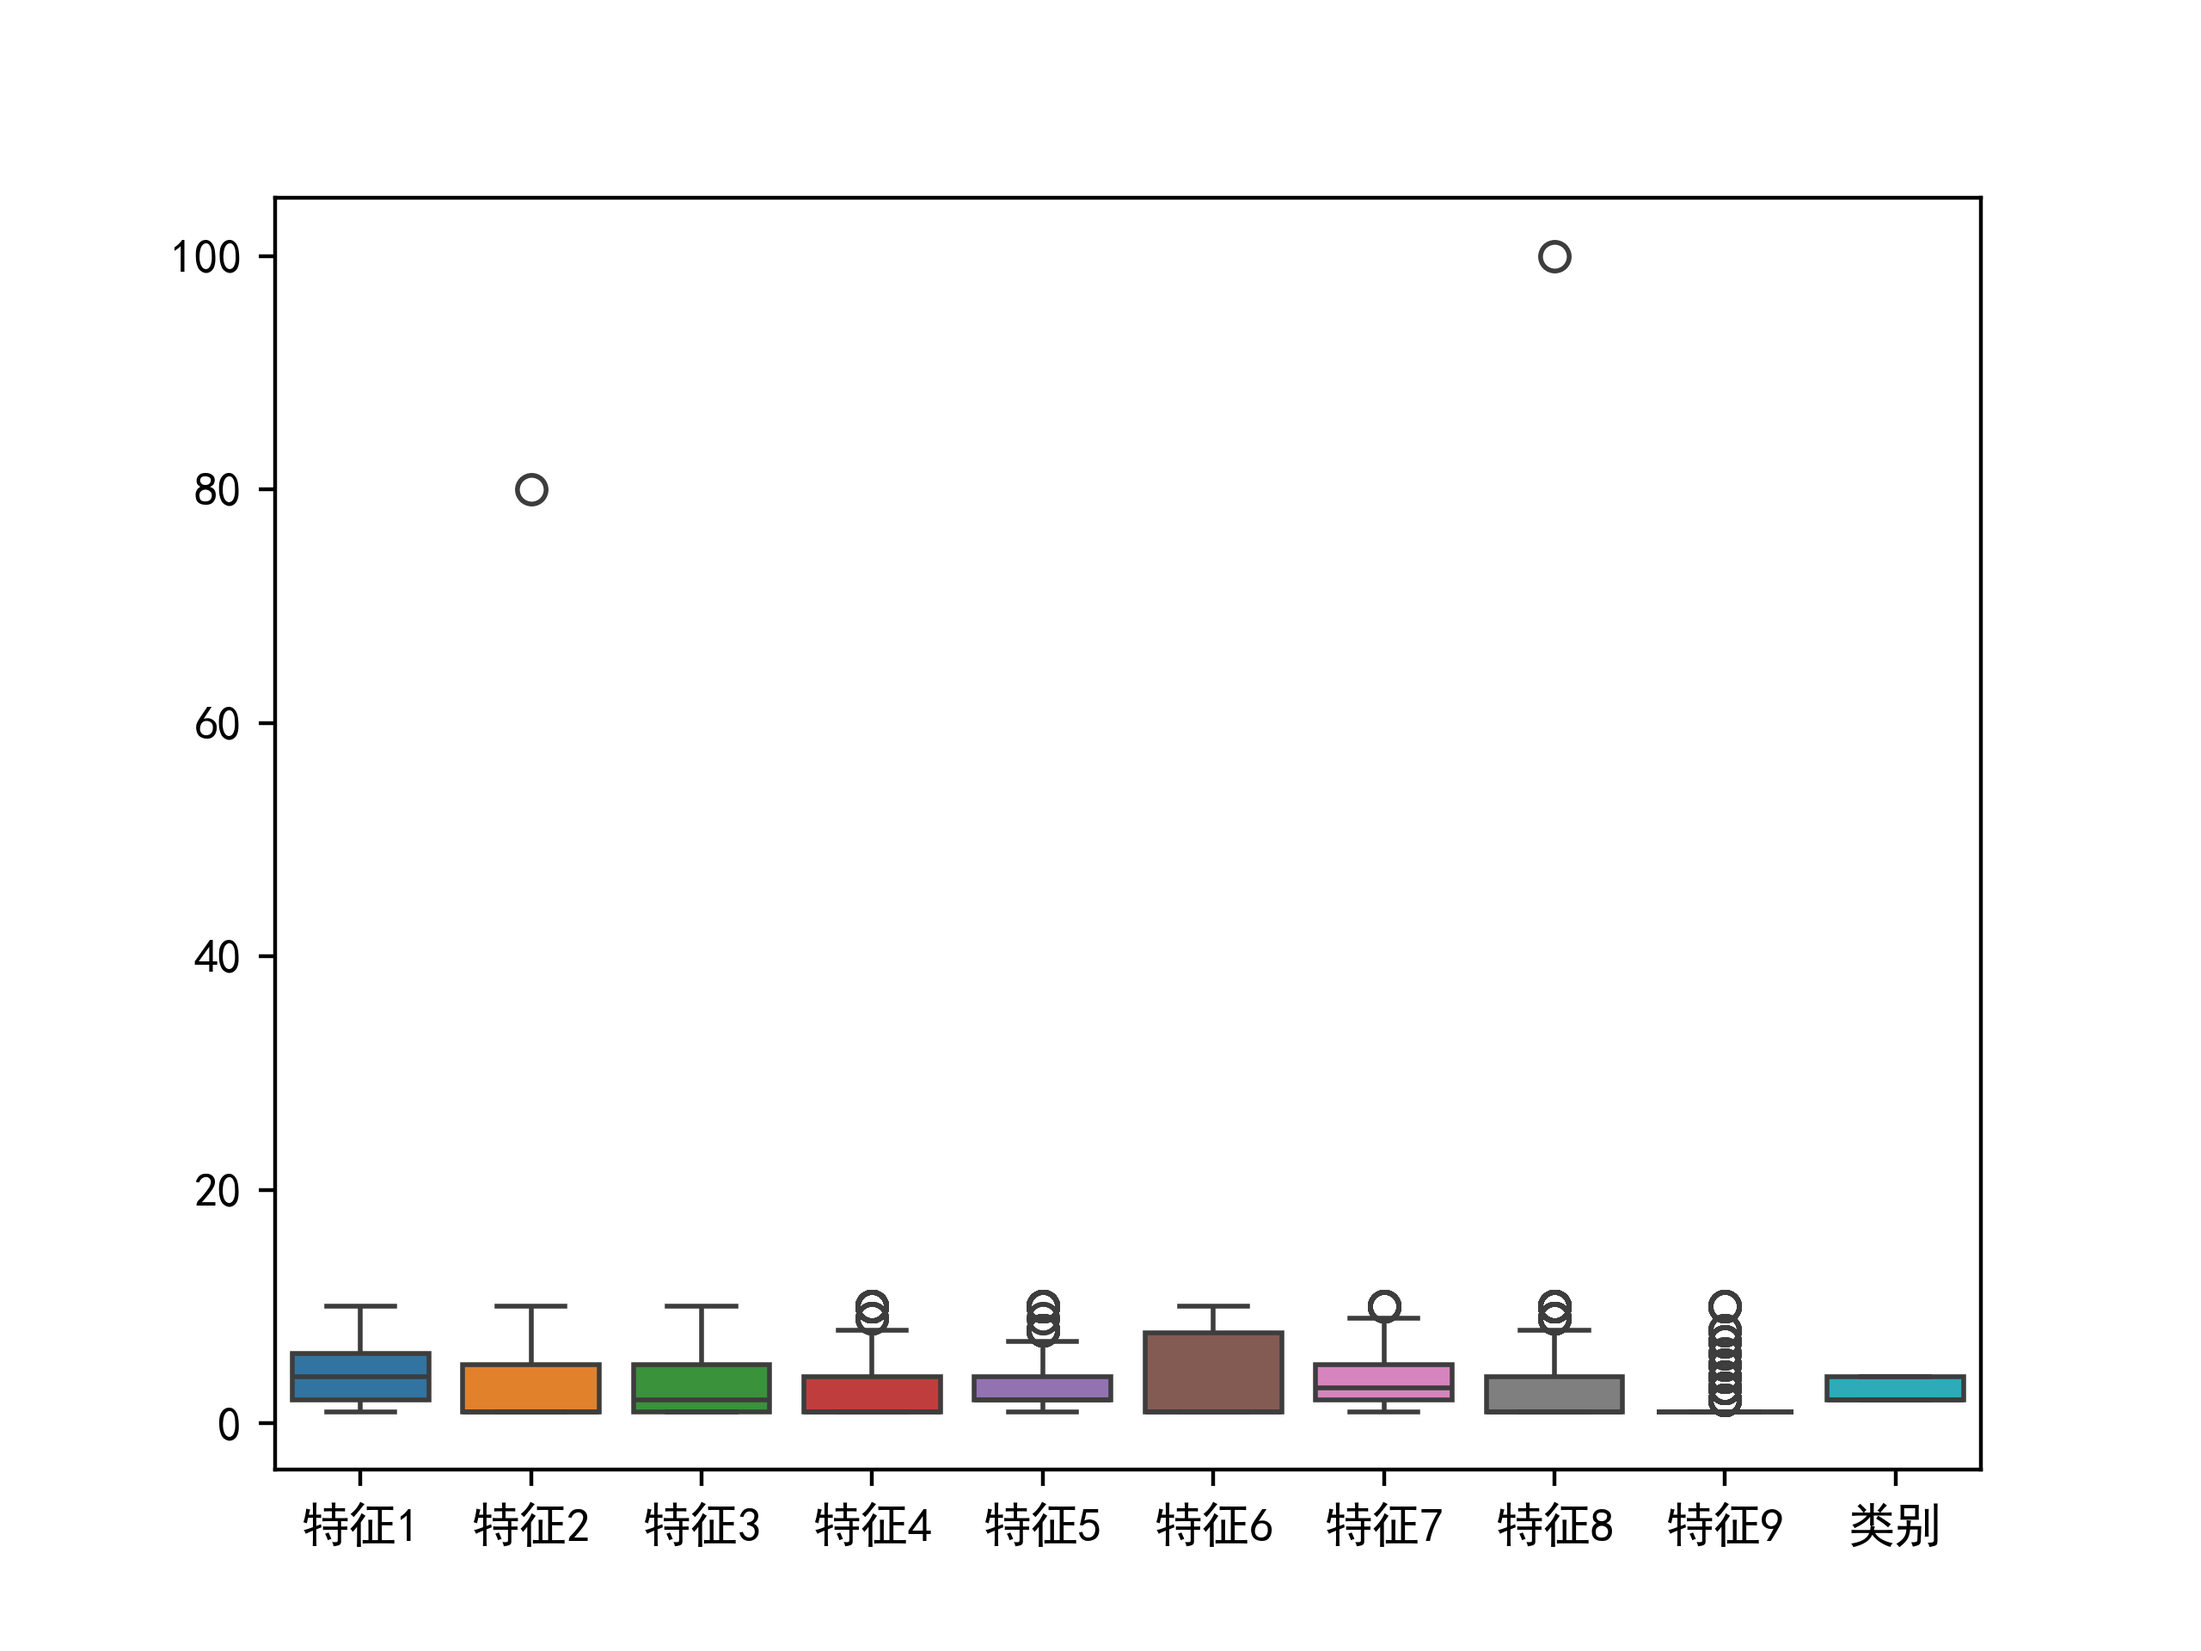
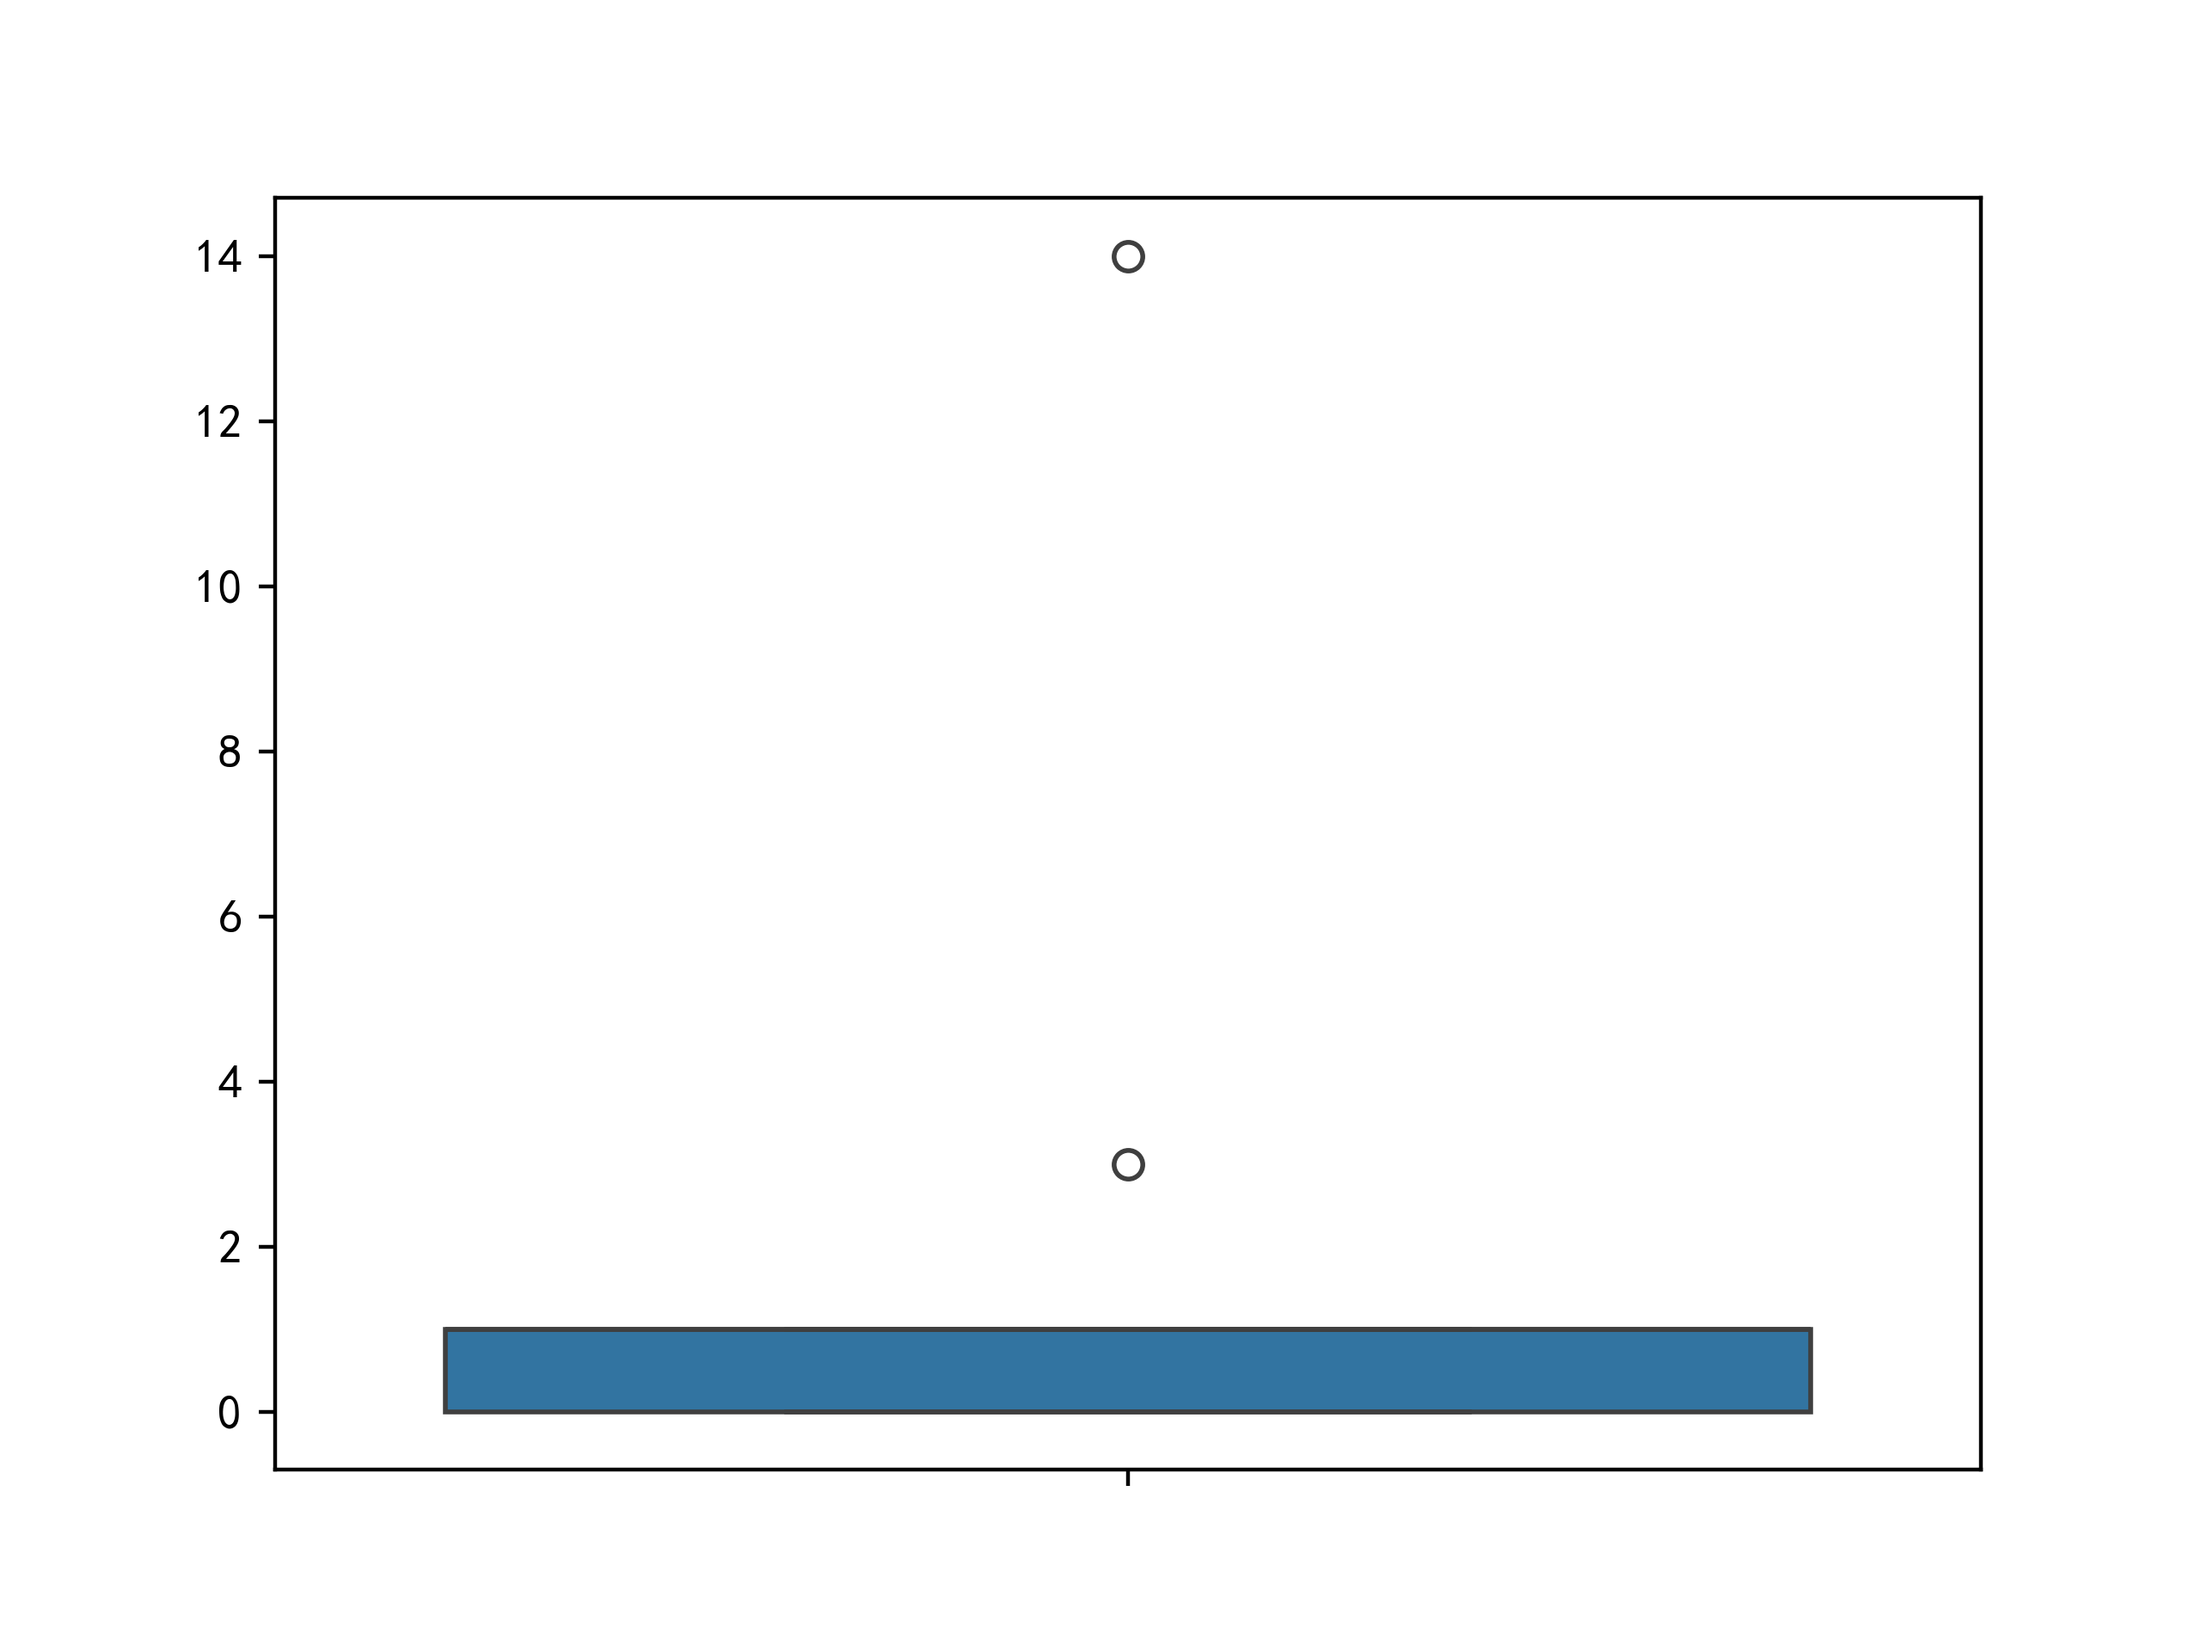
add empty pic

diff --git a/test1.py b/test1.py
@@ -7,6 +7,7 @@ from sklearn.metrics import roc_auc_score
 from sklearn.metrics import roc_curve
 import seaborn as sns
 
+import data
 from data_clean import data_clean
 
 sns.set(style="white")  # 设置seaborn画图的背景为白色
@@ -50,25 +51,24 @@ def generate_mode(df=None):
     # sns.heatmap(correlation_matrix, annot=True, cmap='coolwarm', fmt=".2f")
     # plt.show()
 
-    # logit_roc_auc = roc_auc_score(y_test, log_regression.predict(x_test))
-    # fpr, tpr, thresholds = roc_curve(y_test, log_regression.predict_proba(x_test)[:, 1])
-    # plt.figure()
-    # plt.plot(fpr, tpr, label='Logistic Regression (area = %0.2f)' % logit_roc_auc)
-    # plt.plot([0, 1], [0, 1], 'r--')
-    # plt.xlim([0.0, 1.0])
-    # plt.ylim([0.0, 1.05])
-    # plt.xlabel('False Positive Rate')
-    # plt.ylabel('True Positive Rate')
-    # plt.title('Receiver operating characteristic')
-    # plt.legend(loc="lower right")
-    # plt.savefig('Log_ROC')
-    # plt.show()
+    logit_roc_auc = roc_auc_score(y_test, log_regression.predict(x_test))
+    fpr, tpr, thresholds = roc_curve(y_test, log_regression.predict_proba(x_test)[:, 1])
+    plt.figure()
+    plt.plot(fpr, tpr, label='Logistic Regression (area = %0.2f)' % logit_roc_auc)
+    plt.plot([0, 1], [0, 1], 'r--')
+    plt.xlim([0.0, 1.0])
+    plt.ylim([0.0, 1.05])
+    plt.xlabel('False Positive Rate')
+    plt.ylabel('True Positive Rate')
+    plt.title('Receiver operating characteristic')
+    plt.legend(loc="lower right")
+    plt.savefig('Log_ROC')
+    plt.show()
 
 
 def import_data():
     # 将数据读入 DataFrame
-    df = pd.read_excel('附件1.xlsx', na_values=['?'])
-    df.drop(df.tail(2).index, inplace=True)  # drop last 2 rows
+    df = data.get_data1()
 
     data_clean(df)
 

diff --git a/show_pic.py b/show_pic.py
@@ -1,3 +1,6 @@
+#!/usr/bin/python
+# -*- coding: UTF-8 -*-
+
 import seaborn as sns
 import matplotlib.pyplot as plt
 
@@ -8,7 +11,10 @@ import data
 
 df = data.get_data1()
 
-fig = sns.boxplot(data=df)
+print(df.isnull().sum())
+print("共有%s个空值" % df.isnull().sum().sum())
 
-fig.get_figure().savefig('imgs/boxplot.png', dpi = 400)
+fig = sns.boxplot(data=df.isnull().sum())
+
+fig.get_figure().savefig('imgs/boxplot.png', dpi=400)
 plt.show()

diff --git a/data_clean.py b/data_clean.py
@@ -1,3 +1,6 @@
+#!/usr/bin/python
+# -*- coding: UTF-8 -*-
+
 import pandas as pd
 
 
@@ -6,7 +9,6 @@ def data_clean(df):
     # sns.countplot(x=x, data=df, palette='Set2')
     # plt.show()
     # print(df[x].value_counts())
-
 
     # 预览数据
     df['类别'].replace({2: 0, 4: 1}, inplace=True)

diff --git a/data.py b/data.py
@@ -1,3 +1,6 @@
+#!/usr/bin/python
+# -*- coding: UTF-8 -*-
+
 import pandas as pd
 
 
